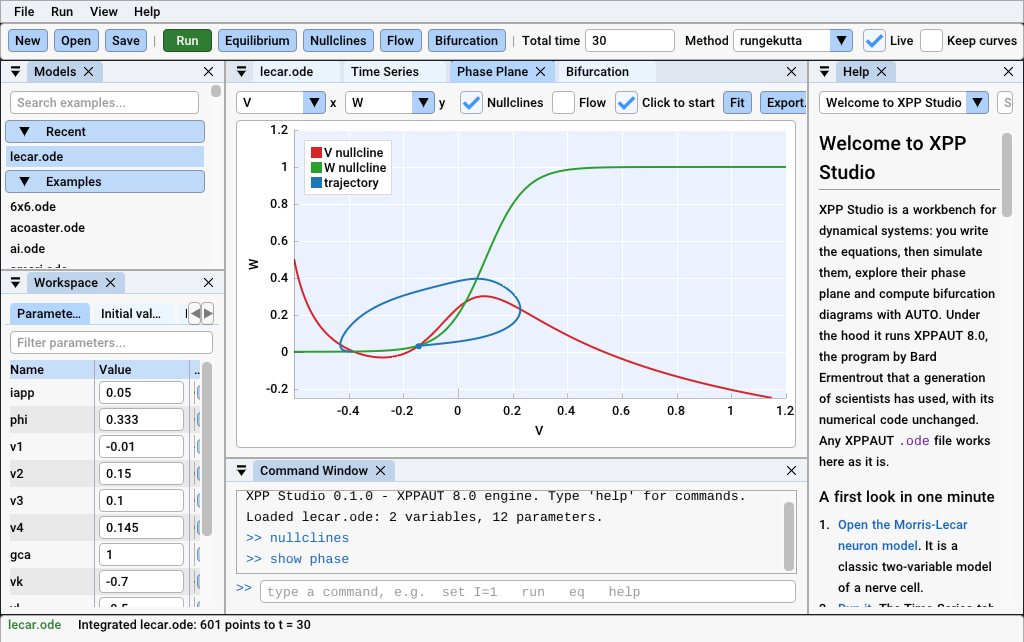
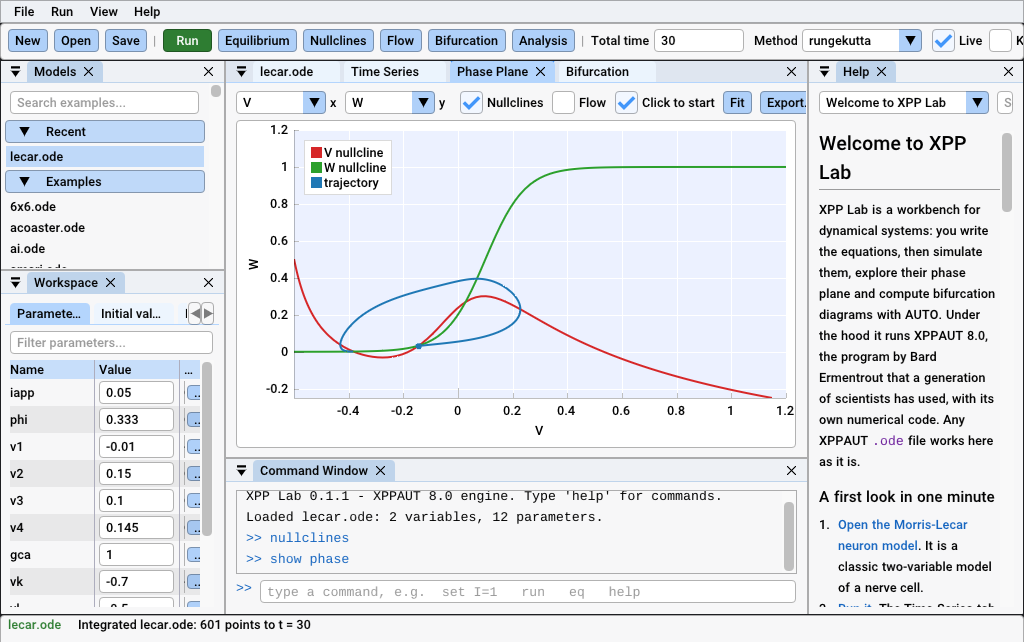
Docs: the two macOS screenshots of XPP Lab 0.1.1
macos-retina.png is the 0.1.1 app from the release's dmg on the M2
MacBook Air (2940x1612 pixels, shown at half size); macos-first-run.png is
CI's screenshot from GitHub's Apple Silicon runner at 145fdf3. Both
showed the old name.

On that Mac, a fresh clone of main: ctest 6 of 6 (without the Windows
goldens), golden compare 197 same, pytest 83 passed, parity 37 of 37. The
release's dmg: checksum OK, universal and ad-hoc signed, rejected by
Gatekeeper while quarantined as the install guide says, and AUTO on
coaster2D keeps drag at 1.2. pip install xpplab 0.1.1 works on arm64.

diff --git a/docs/development/macos.md b/docs/development/macos.md
@@ -76,8 +76,8 @@ resolution.
 
 ![XPP Lab on a Retina MacBook Air](../images/macos-retina.png)
 
-*The fixed app on the M2 MacBook Air (macOS 26.6), shown at half its
-2940 × 1618 pixels.*
+*XPP Lab 0.1.1, from the release's `.dmg`, on the M2 MacBook Air (macOS
+26.6), shown at half its 2940 × 1612 pixels.*
 
 ## What already works
 
@@ -95,7 +95,7 @@ resolution.
   macOS 11 or later). SDL3 is compiled from source because Homebrew's is
   single-architecture. It mounts the `.dmg` and checks the architectures,
   that nothing links outside the bundle, the signature, and that the app
-  starts and runs AUTO. That build is on the preview release.
+  starts and runs AUTO. That build is the `.dmg` of each release.
 - **`Info.plist`** declares the `.ode` document type (UTI
   `org.xpplab.ode`), marks the app as Retina-capable and sets the
   minimum system version to 11.0.
